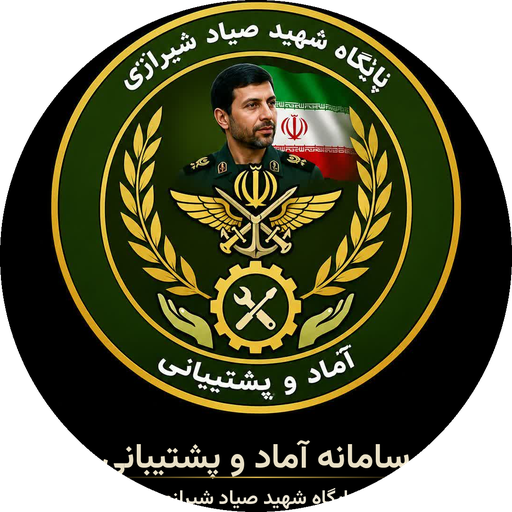
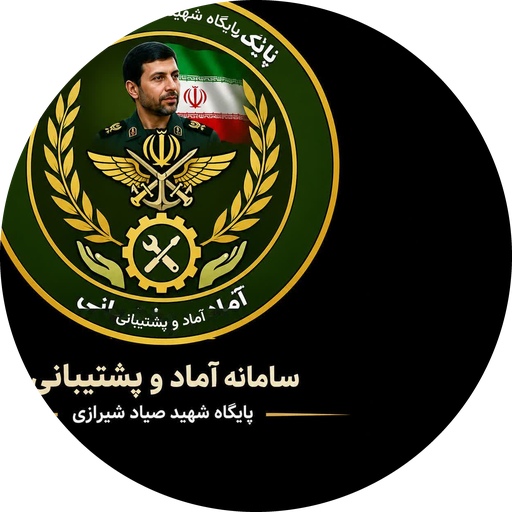
brand: emblem v2 with corrected arc words (پایگاه، شیرازی، پشتیبانی), emblem centered on login screen

diff --git a/app_main.py b/app_main.py
@@ -362,6 +362,13 @@ class Login(Screen):
         portraits.add_widget(Widget())          # flexible space keeps pair on the right
         portraits.add_widget(portrait('mojtaba.jpg'))
         root.add_widget(portraits)
+        # centered base emblem in the سامانه title frame
+        from kivy.uix.anchorlayout import AnchorLayout
+        anchor=AnchorLayout(anchor_x='center', anchor_y='center', size_hint=(1,None), height=dp(128))
+        logo=KImage(source=str(BASE/'assets'/'emblem.png'), allow_stretch=True, keep_ratio=True,
+                    size_hint=(None,None), size=(dp(128),dp(128)))
+        anchor.add_widget(logo)
+        root.add_widget(anchor)
         root.add_widget(lbl('سامانه آماد و پشتیبانی',30,True))
         root.add_widget(lbl('پایگاه شهید صیاد شیرازی',21))
         root.add_widget(lbl('بسمالله الرحمن الرحیم\nبسیج، لشکر مخلص خداست (امام خمینی، ره)\nبسیجی یعنی علی که تمام وجودش وقف اسلام بود (امام شهید، ره)',18))
